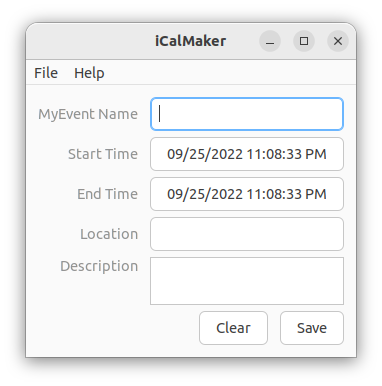
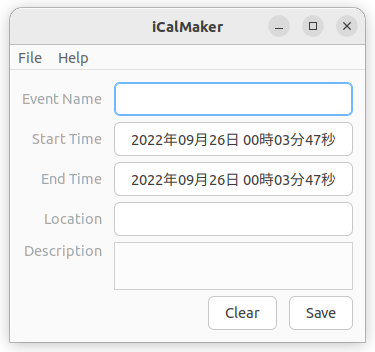
Fix a typo

diff --git a/icalmaker/app.rb b/icalmaker/app.rb
@@ -40,7 +40,7 @@ module ICalMaker
           form do
             entry do
               stretchy false
-              label 'MyEvent Name'
+              label 'Event Name'
               text <=> [@event, :name]
             end
             date_time_picker do
